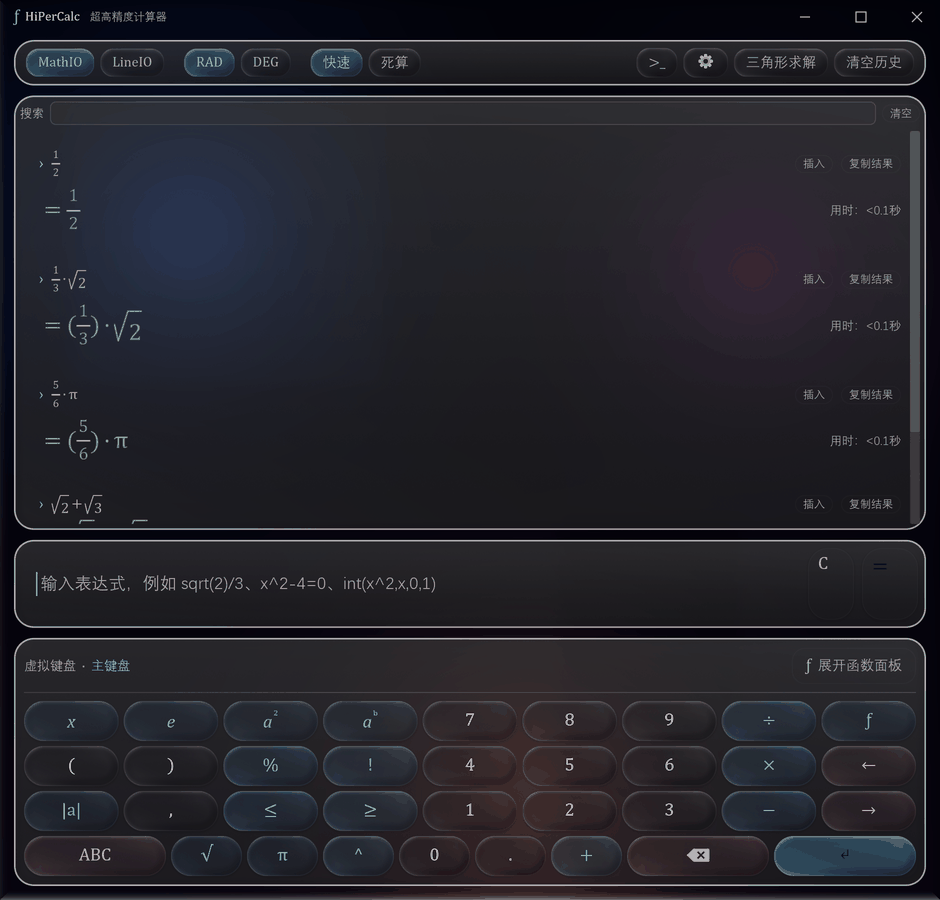
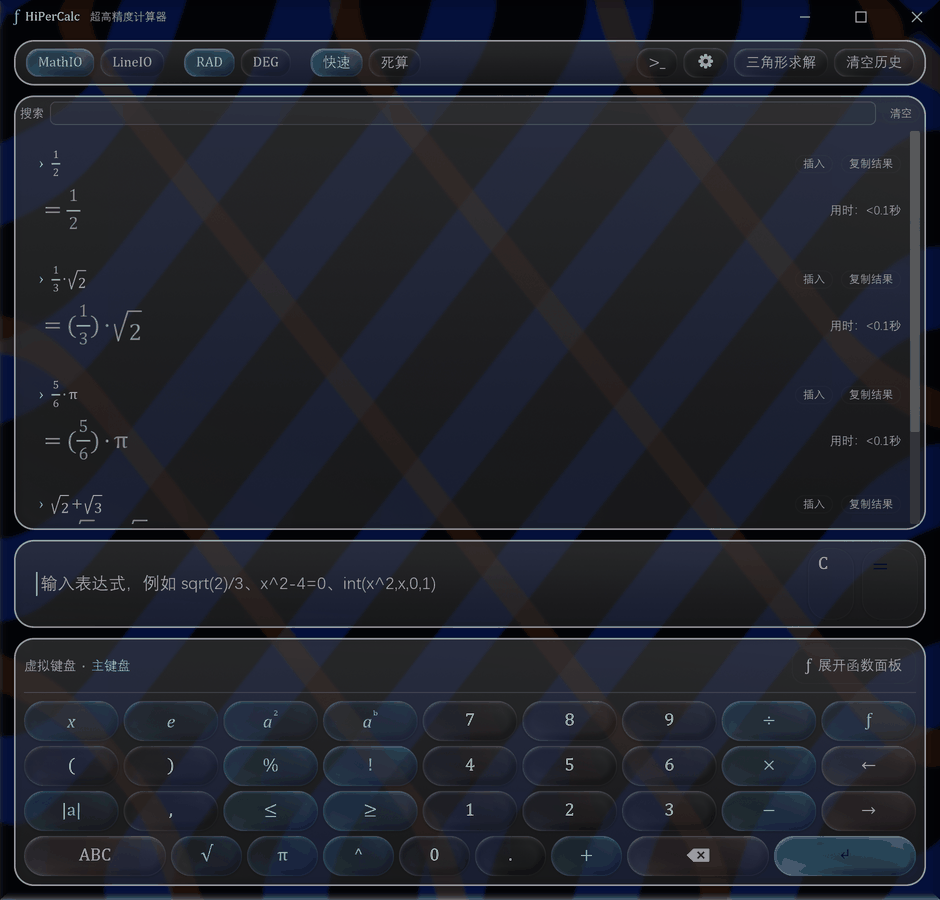
fix(glass): 拉扯深度提到 0.49（贴边角度最大且仍单调）；产品图背景换成粗斜线

diff --git a/crates/hipercalc-gui/src/glass_wgsl.rs b/crates/hipercalc-gui/src/glass_wgsl.rs
@@ -22,10 +22,21 @@
 //! 角部再乘 [`corner_gain`]：法线越"斜"（越靠角）位移越强，于是角上的
 //! 内容被更狠地拽向角落 —— 与实拍一致。
 
-/// 窗口环带宽度 = **短边的比例**（用户 2026-10-27 定为 10%）。
+/// **拉扯起点** = 短边的比例（用户 2026-10-28："12% 左右开始被拉扯"）。
 ///
-/// 环带从"离边 10%"开始：外面这一段才会被拉扯/压扁，内部完全不动。
-pub const WIN_BAND_FRAC: f32 = 0.10;
+/// 离边 12% 以内才开始形变，内部完全不动。
+pub const WIN_BAND_FRAC: f32 = 0.12;
+
+/// **拉扯深度**：贴边处的位移 = `WIN_PULL × 环带`。
+///
+/// 位移曲线 `A·t²`（t：折痕 0 → 贴边 1）⇒ 映射斜率 `1 - 2A·t`。
+/// **A < 0.5 才处处单调**：图案只会被压弯、不会折返 ⇒ 没有折痕、没有缝。
+/// 0.49 是"贴着上限"的值 —— 边缘几乎被压成水平，视觉上角度变化最大。
+///
+/// ⚠ 试过"真翻折"（方向反转、转折点斜率 0）：直边好看，但圆角处两条轴
+/// 同时翻折会转出**同心环**（像眼睛），而且 8% 处会留下一道方形亮边。
+/// 所以回到单调版本，用"压得更扁"来表达同样的角度变化。
+pub const WIN_PULL: f32 = 0.49;
 
 /// 窗口的"圆角半径"——**只用于折射**，不用于裁剪。
 ///
@@ -34,22 +45,11 @@ pub const WIN_BAND_FRAC: f32 = 0.10;
 /// 但折射必须按圆角来算，否则角上会出现尖点（见 `glass_fold` 的注释）。
 pub const WIN_CORNER_R: f32 = 26.0;
 
-/// **拉扯深度**：贴边处的位移 = `WIN_PULL × 环带`。
-///
-/// ⚠ **必须 < 0.5**：位移曲线是 `A·t²`（t 从折痕处的 0 长到贴边的 1），
-/// 映射斜率 = `1 - 2·A·t`；只有 `A < 0.5` 才**处处为正**，也就是
-/// 屏幕→采样始终单调、图案只会被压弯**不会折返**。
-///
-/// 用户 2026-10-28 对着 iOS 参考图指出："线条在边缘是不会断开的" ——
-/// 之前 `WIN_MIRROR = 2.0` 是**镜像**，斜率反号，必然在环带里折出一道 V 形
-/// 折痕（他说的"明显割裂"）。0.45 是"压得很扁但仍然连续"的量级。
-pub const WIN_PULL: f32 = 0.45;
-
 /// 角部加成：`幅度 × (1 + WIN_CORNER_BOOST · 角权)`。
 ///
-/// ⚠ **必须是 0**（2026-10-28 改）：加成会把角部的 `A` 推到 0.5 以上，
-/// 映射在那里**又重新非单调**了 —— 表现就是角上冒出一道折痕。
-/// 现在边缘本身的拉扯已经够强（A=0.45·band），角部靠"方向转向角心"就够了。
+/// ⚠ **保持 0**：翻折本身已经把角部拉得很狠，再乘一个 >1 的系数会
+/// 让角上的转折点跑到环带外面、出现"折两下"的怪相。角部只靠
+/// "方向转向角心"（`glass_fold` 里的法线混合）就够了。
 pub const WIN_CORNER_BOOST: f32 = 0.0;
 
 /// 窗口折射强度（与 `app.rs` 传给 `Refraction` 的值同源）。
@@ -180,7 +180,12 @@ fn glass_fold(p: vec2<f32>, half: vec2<f32>, radius: f32, band: f32,
     let nc = -rel / rho;
     let n = normalize(mix(ne, nc, wc));
 
-    // 幅度：贴边最大（t=1）、折痕处为 0；角部再放大
+    // ── 幅度：单调"拉扯"（只压弯、不折返）────────────────────────────────
+    //
+    //     disp(d) = amp · t²,   t = 1 - d/band
+    // 映射斜率 = 1 - 2·(amp/band)·t；只要 `amp/band < 0.5` 就处处为正。
+    // 用户 2026-10-28 对照 iOS 截图："线条在边缘不会断开" —— 折返（镜像）
+    // 必然折出一道 V，这里用"越贴边压得越扁"来制造同样的角度变化。
     let t = max(0.0, 1.0 - dm / b);
     let mag = amp * t * t * (1.0 + boost * wc);
     // `n` 朝外 ⇒ 采样朝内用负号

diff --git a/crates/hipercalc-gui/tests/snapshot.rs b/crates/hipercalc-gui/tests/snapshot.rs
@@ -553,6 +553,43 @@ fn keypad_is_clickable_through_simulator() {
 ///
 /// 这里造的是：竖向渐变（深靛 → 暖紫）+ 三个大光斑（蓝绿 / 品红 / 琥珀）
 /// + 两块"虚化窗口"矩形。**没有真实内容**，但足够让折射、色散、边缘高光都有东西可看。
+/// **产品图专用背景：粗斜线**（用户 2026-10-28 要求）。
+///
+/// 为什么换成斜线：渐变/光斑看不出"折射把线弯成什么角度"，而 45° 粗条
+/// 一眼就能判断折痕在哪、方向有没有反过来。颜色刻意压得比 `desktop_like`
+/// 稳重一些，免得把玻璃上的字冲淡。
+fn stripes_like(w: u32, h: u32) -> Vec<u8> {
+    let mut out = vec![0u8; (w * h * 4) as usize];
+    // 两组斜线（45° 与 -45°），间距按"短边"算，缩放窗口时看起来一致
+    let short = w.min(h) as f32;
+    let period = short * 0.22;
+    let width = period * 0.42;
+    for y in 0..h {
+        let fy = y as f32;
+        for x in 0..w {
+            let fx = x as f32;
+            // 主族：↗ 深蓝；副族：↘ 暖橙
+            let a = ((fx + fy) / period).fract();
+            let b = ((fx - fy + 10.0 * period) / (period * 1.7)).fract();
+            // ⚠ 别调亮：试过 52/100/176，玻璃一叠加整屏发灰、白字对比度掉得很厉害。
+            // 现在这组是"能看出斜线、又不抢界面"的档位。
+            let mut c = [20.0f32, 27.0, 44.0];
+            if a * period < width {
+                c = [34.0, 70.0, 132.0];
+            }
+            if b * (period * 1.7) < width * 0.45 {
+                c = [c[0] * 0.55 + 190.0 * 0.45, c[1] * 0.55 + 120.0 * 0.45, c[2] * 0.55 + 60.0 * 0.45];
+            }
+            let i = ((y * w + x) * 4) as usize;
+            out[i] = c[0].clamp(0.0, 255.0) as u8;
+            out[i + 1] = c[1].clamp(0.0, 255.0) as u8;
+            out[i + 2] = c[2].clamp(0.0, 255.0) as u8;
+            out[i + 3] = 255;
+        }
+    }
+    out
+}
+
 fn desktop_like(w: u32, h: u32) -> Vec<u8> {
     fn lerp(a: f32, b: f32, t: f32) -> f32 {
         a + (b - a) * t
@@ -643,8 +680,9 @@ fn readme_shots() {
         if dark {
             // ✅ 顺序不能反：先建 State 再切玻璃
             let _ = state.update(Message::SetTexture(hipercalc_gui::theme::Texture::Glass));
-            // 产品图想要"看得出是玻璃、但内容还看得清"的模糊量
-            let _ = state.update(Message::SetGlassBlur(0.32));
+            // 产品图想要"看得出是玻璃、但斜线还认得出"的模糊量：
+            // 0.32 会把 45° 粗条糊成色块（试过），0.12 还能看出线的走向
+            let _ = state.update(Message::SetGlassBlur(0.12));
             let _ = state.update(Message::BgCaptured(Some(
                 hipercalc_gui::backdrop::Backdrop {
                     x: 0,
@@ -653,7 +691,7 @@ fn readme_shots() {
                     height: h,
                     rw: VIEWPORT.0 as u32,
                     rh: VIEWPORT.1 as u32,
-                    rgba: desktop_like(w, h),
+                    rgba: stripes_like(w, h),
                 },
             )));
         }

diff --git a/crates/hipercalc-gui/src/liquid.rs b/crates/hipercalc-gui/src/liquid.rs
@@ -385,9 +385,9 @@ fn fs(in: VOut) -> @location(0) vec4<f32> {
             u.origin.y + (1.0 - uv.y) * u.size.y,
         ) / u.win;
         let short = min(u.size.x, u.size.y);
-        // 局部环带：`thick`（随圆角走）是下限，同时不小于短边的 15%
-        //（与窗口同一个 `WIN_BAND_FRAC`：折痕落在离边 15% 处）
-        let lens_band = max(max(u.edge.x, 1.0), 0.15 * short);
+        // 局部环带：`thick`（随圆角走）是下限，同时不小于短边的 12%
+        //（与窗口同一个 `WIN_BAND_FRAC`：从离边 12% 开始拉扯、8% 处翻折）
+        let lens_band = max(max(u.edge.x, 1.0), WIN_BAND_FRAC * short);
 
         // 未经任何位移的采样点（窗口 uv → 图像 uv）
         let base = s * u.map.xy + u.map.zw;
@@ -419,9 +419,9 @@ fn fs(in: VOut) -> @location(0) vec4<f32> {
             // 折的是同一个形状，边界处不会露馅。
             //
             // `p` 是 y 向上的局部坐标，采样空间 y 向下 ⇒ 位移的 y 要取反。
-            let amp_px = u.edge.y * 4.5 * lens_band;
-            let fo = glass_fold(p, half, max(u.radius, 0.0), lens_band, amp_px,
-                                WIN_CORNER_BOOST);
+            // 与窗口同一个比例（WIN_PULL），只是尺度按部件短边
+            let fo = glass_fold(p, half, max(u.radius, 0.0), lens_band,
+                                WIN_PULL * lens_band, WIN_CORNER_BOOST);
             let dloc = vec2<f32>(fo.x, -fo.y) * (u.map.xy / u.win);
 
             let disp = base + ring_off + dloc;
